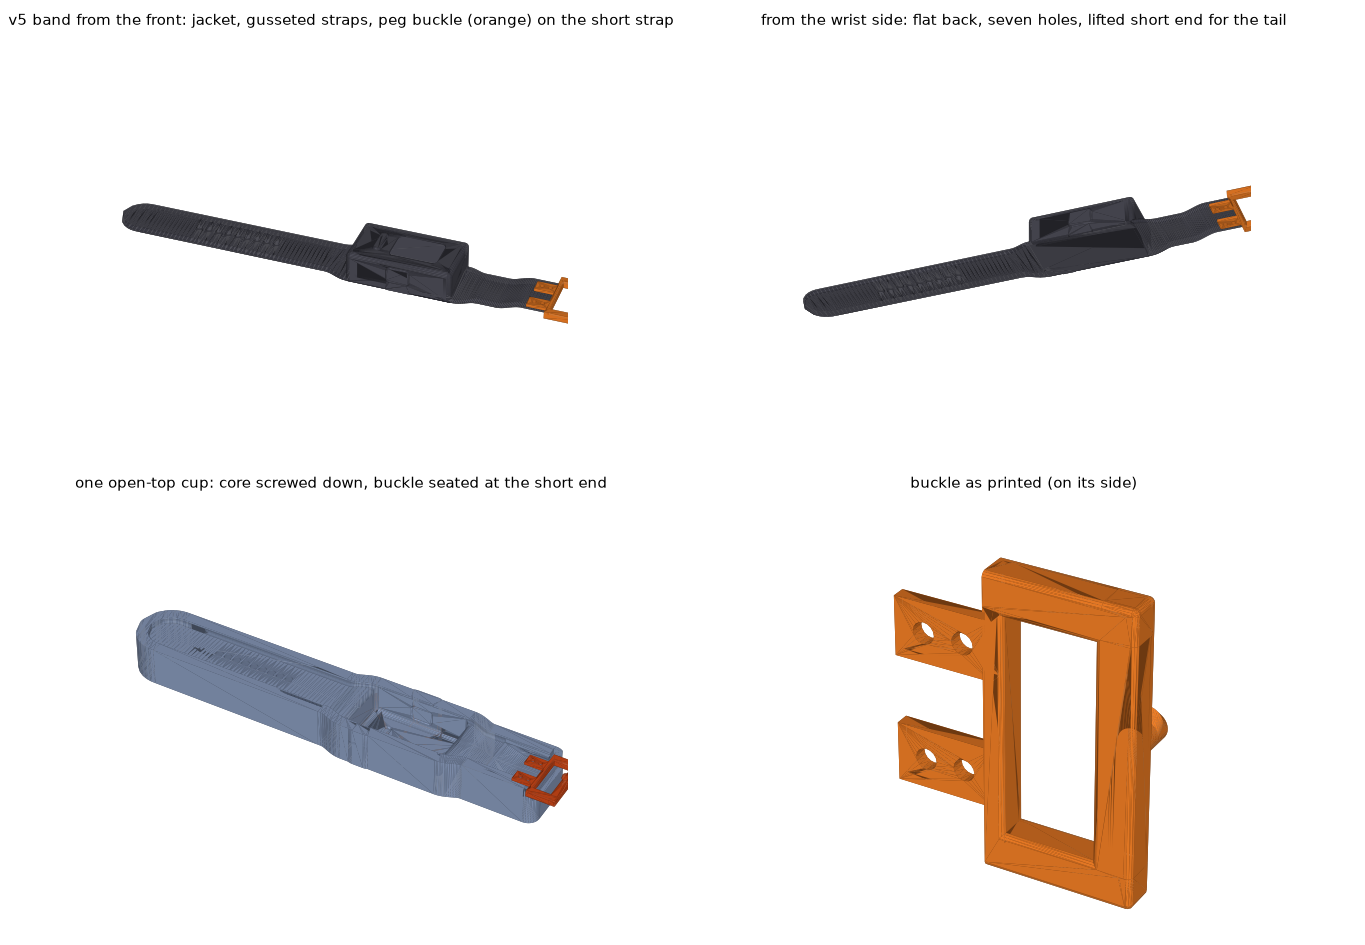
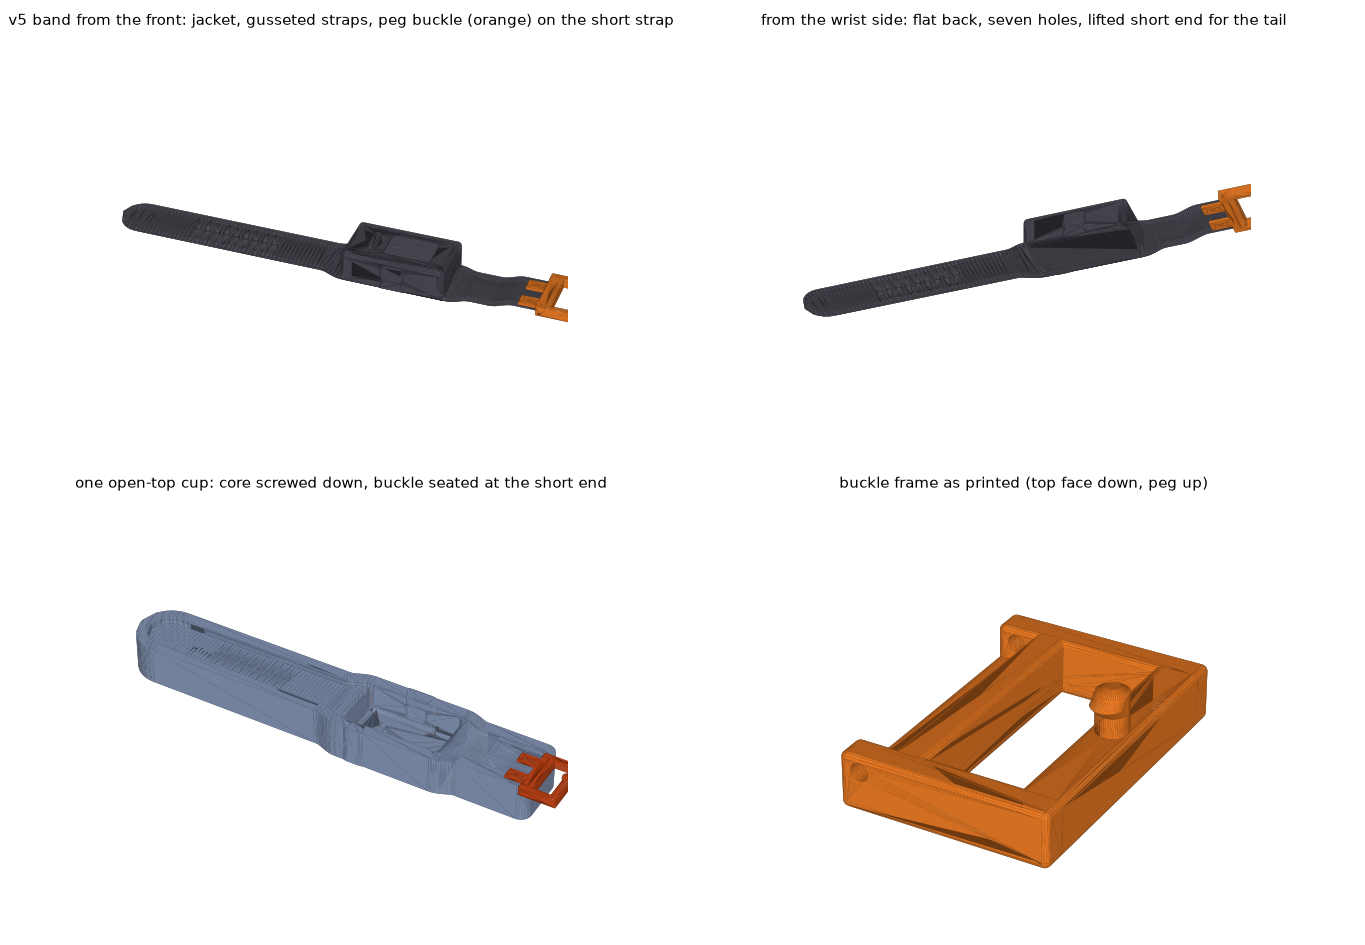
Band v5: docs and render for the anchor + frame buckle
Claude-Session: https://claude.ai/code/session_01Q973PEj7GqP6Vg8z4v5zFy

diff --git a/docs/build-notes.md b/docs/build-notes.md
@@ -95,17 +95,19 @@ One mold piece, one core, two staples:
 
 The Fitbit-style answer: **band and jacket are one silicone part**, cast in one open pour. The jacket is v4's sealed pocket (1.5 mm back, 0.8 mm lip, port slit, button pads) with pebble styling (R2 plan corners, R2.5 round on the front perimeter, 0.8 round on the wrist edge). The **window matches the screen** plus 1.5 mm, so only the display shows and the lips over the Stick's ends are 7 mm (top) and 17 mm (USB-C end): the first cast had a 2 mm top lip and the Stick popped out when the band was tightened. The straps grow straight out of the end walls as a **hinge**: full 29 mm wide but only 2.0 mm thick for the first 6 mm, blending up to 2.8 by 12 mm, with an R2 fillet up the end wall and the root starting inside the jacket so there is no crevice at the sides. The jacket is nearly as long as the flat of the wrist, so the band has to bend right at the sleeve; a thin wide hinge does that at a few percent strain instead of levering the end wall. The long strap's tip is a full semicircle. No frame, no lugs, no loops: the band pulls on the jacket the way v1's did, through ten times the rubber. 16.1 mm tall, 17.0 at the button.
 
-**Closure:** a PETG peg buckle cast into the end of the short strap. A plate closes the strap end (its outer face shows), two tongues with holes anchor it mid-thickness in the strap, two rails carry a crossbar with a peg pointing at the wrist: a 2.4 mm neck long enough to pass through the strap and 1.2 mm beyond, with a one-sided 0.9 mm bump that the 3.4 mm hole snaps over, so it stays put when the band is slack. The long strap passes under the crossbar, the peg snaps into one of nine cast holes (5 mm pitch, sizes 150-190 mm), and the tail tucks under the short strap, whose last 12 mm are lifted 3 mm to let it through. Rigid frame, rigid peg: a one-thumb press, unlike v1's silicone stud.
+**Closure:** a peg buckle in two PETG parts. The **anchor** is cast into the end of the short strap: a 3 mm plate closing the strap end with a 1.6 mm hole across it, and two holed tongues buried mid-thickness. The **frame** is fitted after casting: a U-channel the strap end slides into, plate first, up to a stop, locked by a pin through the U's side walls and the plate (a 22 mm spring bar or 1.6 mm stainless wire); rails carry a crossbar with a peg pointing at the wrist, a 3.0 mm neck with a one-sided 0.9 mm bump that the 3.4 mm hole snaps over, so it stays put when the band is slack. Nothing of the frame is in the mold, so demolding cannot load it (the first cast-in frame snapped at the rail roots on the way out), and a cast zinc frame later fits the same anchor. The long strap passes under the crossbar, the peg snaps into one of nine cast holes (5 mm pitch, sizes 150-190 mm), and the tail tucks under the short strap, whose last 12 mm are lifted 3 mm to let it through. Rigid frame, rigid peg: a one-thumb press, unlike v1's silicone stud.
 
 | File | What | Print |
 |---|---|---|
-| `stl/band_buckle.stl` | peg buckle (4 mm rails, 3 mm peg) | **PETG**, as exported (on its side, so the peg is strong in bending), brim, 100% infill, 0.16 mm, **250-255 C, fan 10-20%, outer walls 30 mm/s** (the first one delaminated: too cool), supports on for the two tongue edges |
+| `stl/band_anchor.stl` | cast-in anchor: plate + tongues | **PETG**, as exported (plate face down, tongues up), 100% infill, 250-255 C, fan 10-20%, no supports |
+| `stl/band_frame.stl` | buckle frame: U-channel, stop, rails, crossbar, peg | **PETG**, as exported (top face down, peg up), 100% infill, 0.16 mm, 250-255 C, fan 10-20%, outer walls 30 mm/s, no supports. Pin: a 22 mm spring bar or 1.6 mm wire |
+| `stl/band_frame_salvage.stl` | the same frame sized for the first cast's remnant plate (28 x 3.6 x 2) | as above; slide it on, drill 1.7 mm through its pin holes into the strap and tongues, pin |
 | `stl/band_core.stl` | Stick shape + window pad + port pocket | PLA, as exported, no supports, 3 walls |
 | `stl/band_cup.stl` | one 210 x 42 mm open-top mold: jacket pocket, strap troughs, buckle seat, M3 clamp and M4 jack holes, hole-pin recesses | PLA, **placed diagonally** on the bed, brim, no supports, 0.16 mm |
 | `stl/band_lid.stl` | forms the wrist face: fillet ridge, the boss that lifts the short strap's end, nine pins for the holes, vents | PLA, diagonally, no supports |
 | `stl/band_preview_not_for_printing.stl` | the finished part | don't print |
 
-**Casting:** release on everything. Core on the floor, pad down, two M3 x 8 up through the cup. Buckle into its seat at the short end, plate against the strap cavity, tongues pointing in. **Mix 22 g A + 22 g B** with pigment (cast volume 17.6 cm3, about 21 g). Syringe the lip layer and the front-button pocket, then pour along the whole length to just above the rim, tap. Lid on, one end first, press onto the rim; excess bleeds from the vents. Cure 24 h or 6 h at 45 C. **Demolding:** cut the flash round the lid, lever it off (the boss and pins pull out of the strap). M3 screws out, card down the jacket's long sides, M4 screws into the jack holes until the core and band rise. Peel the straps out, slide the core out through the window, punch any skin left in the holes, cut the port slit.
+**Casting:** release on everything. Core on the floor, pad down, two M3 x 8 up through the cup. Anchor into its seat at the short end, plate against the seat's outer wall, tongues pointing in, dry (no release on it). After demolding, slide the frame onto the short strap's end, plate first, up to the stop, and push the pin through the frame's side hole, the plate, and out the other side. **Mix 22 g A + 22 g B** with pigment (cast volume 17.6 cm3, about 21 g). Syringe the lip layer and the front-button pocket, then pour along the whole length to just above the rim, tap. Lid on, one end first, press onto the rim; excess bleeds from the vents. Cure 24 h or 6 h at 45 C. **Demolding:** cut the flash round the lid, lever it off (the boss and pins pull out of the strap). M3 screws out, card down the jacket's long sides, M4 screws into the jack holes until the core and band rise. Peel the straps out, slide the core out through the window, punch any skin left in the holes, cut the port slit.
 
 ## Sleeve v4 (`hardware/sleeve_v4/`)
 
